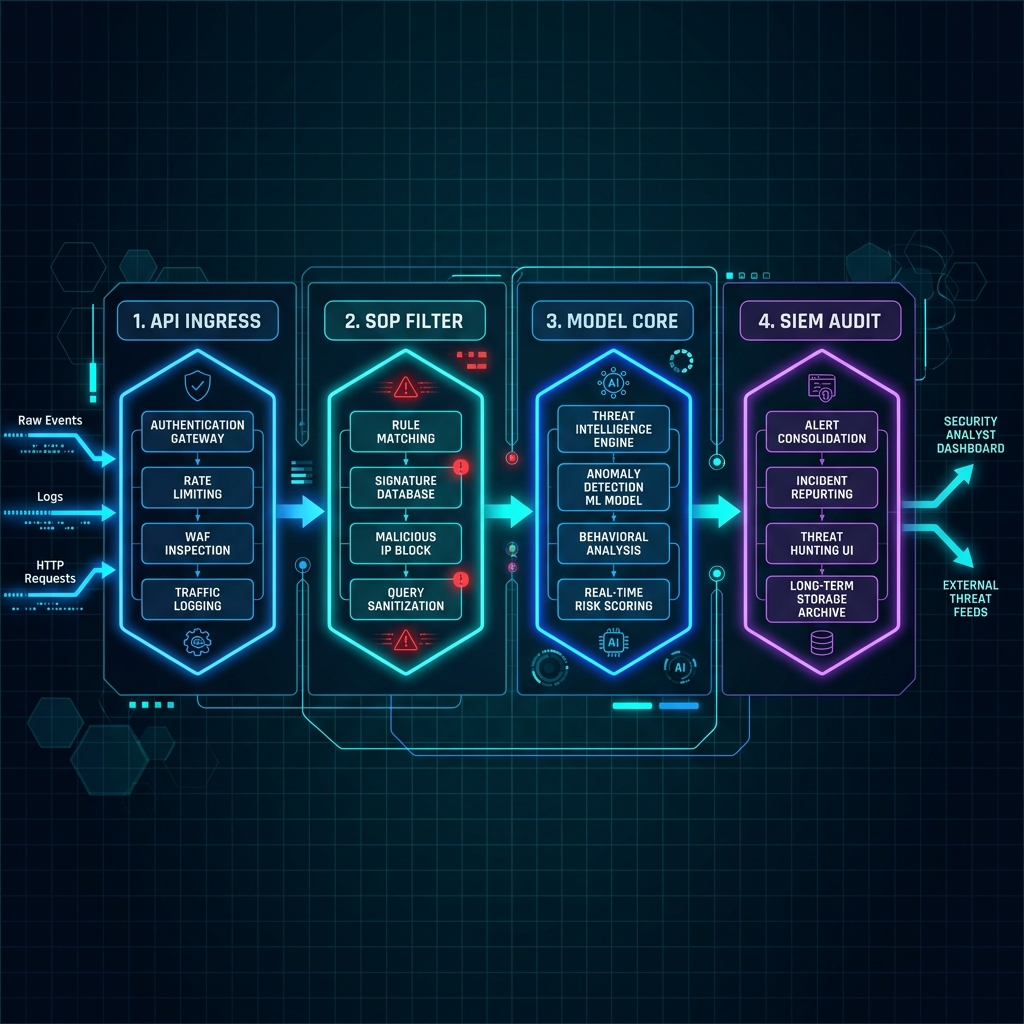
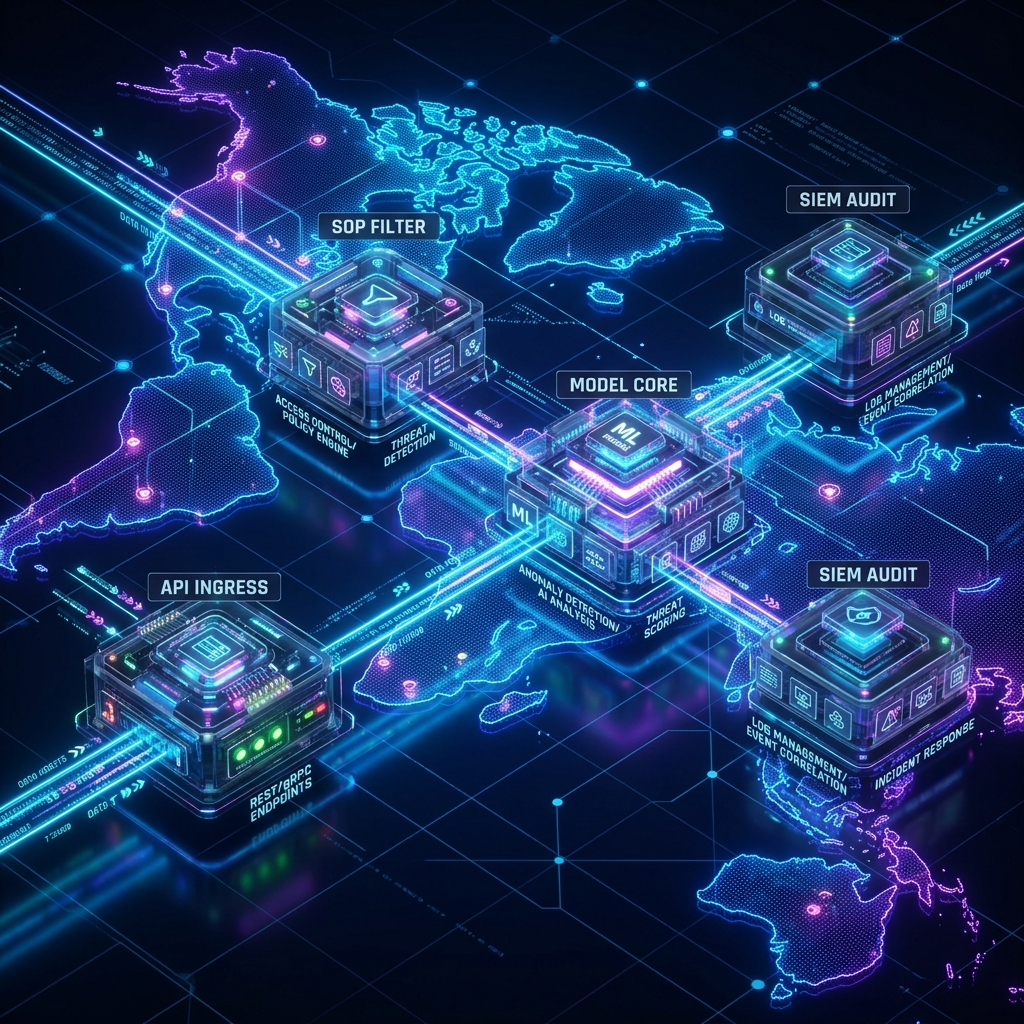
docs/feat: update concept art to premium dark cyber schematic and add glowing cursor hover paths to architecture diagram

diff --git a/src/components/dashboard/ProcessArchitecture.tsx b/src/components/dashboard/ProcessArchitecture.tsx
@@ -189,6 +189,14 @@ export function ProcessArchitecture() {
                 <stop offset="0%" stopColor="#a78bfa" stopOpacity="0.4" />
                 <stop offset="100%" stopColor="#ef4444" stopOpacity="0.4" />
               </linearGradient>
+              {/* Intense path glow filter */}
+              <filter id="glow-path" x="-50%" y="-50%" width="200%" height="200%">
+                <feGaussianBlur stdDeviation="3" result="blur" />
+                <feMerge>
+                  <feMergeNode in="blur" />
+                  <feMergeNode in="SourceGraphic" />
+                </feMerge>
+              </filter>
             </defs>
 
             {/* Grid background markers for detailed feel */}
@@ -199,34 +207,38 @@ export function ProcessArchitecture() {
             <path 
               d="M 50 120 L 200 60" 
               stroke="url(#grad-sop)" 
-              strokeWidth={activeNode === 'ingress' || activeNode === 'sop' ? "2.5" : "1.5"} 
-              strokeDasharray={simulationStep >= 0 ? "none" : "5 5"}
+              strokeWidth={activeNode === 'ingress' || activeNode === 'sop' ? "3" : "1.5"} 
+              strokeDasharray={simulationStep >= 0 || activeNode === 'ingress' || activeNode === 'sop' ? "none" : "5 5"}
+              filter={activeNode === 'ingress' || activeNode === 'sop' ? "url(#glow-path)" : "none"}
               fill="none" 
-              className={`transition-all duration-300 ${simulationStep >= 0 ? 'animate-[dash_1s_linear_infinite]' : ''}`} 
+              className={`transition-all duration-300 ${(simulationStep >= 0 || activeNode === 'ingress' || activeNode === 'sop') ? 'animate-[dash_1s_linear_infinite]' : ''}`} 
             />
             <path 
               d="M 50 120 L 200 180" 
               stroke="url(#grad-model)" 
-              strokeWidth={activeNode === 'ingress' || activeNode === 'model' ? "2.5" : "1.5"} 
-              strokeDasharray={simulationStep >= 0 ? "none" : "5 5"}
+              strokeWidth={activeNode === 'ingress' || activeNode === 'model' ? "3" : "1.5"} 
+              strokeDasharray={simulationStep >= 0 || activeNode === 'ingress' || activeNode === 'model' ? "none" : "5 5"}
+              filter={activeNode === 'ingress' || activeNode === 'model' ? "url(#glow-path)" : "none"}
               fill="none" 
-              className={`transition-all duration-300 ${simulationStep >= 0 ? 'animate-[dash_1.5s_linear_infinite]' : ''}`} 
+              className={`transition-all duration-300 ${(simulationStep >= 0 || activeNode === 'ingress' || activeNode === 'model') ? 'animate-[dash_1.5s_linear_infinite]' : ''}`} 
             />
             <path 
               d="M 200 60 L 350 120" 
               stroke="url(#grad-sop-siem)" 
-              strokeWidth={activeNode === 'sop' || activeNode === 'siem' ? "2.5" : "1.5"} 
-              strokeDasharray={simulationStep >= 0 ? "none" : "5 5"}
+              strokeWidth={activeNode === 'sop' || activeNode === 'siem' ? "3" : "1.5"} 
+              strokeDasharray={simulationStep >= 0 || activeNode === 'sop' || activeNode === 'siem' ? "none" : "5 5"}
+              filter={activeNode === 'sop' || activeNode === 'siem' ? "url(#glow-path)" : "none"}
               fill="none" 
-              className={`transition-all duration-300 ${simulationStep >= 0 ? 'animate-[dash_1.2s_linear_infinite]' : ''}`} 
+              className={`transition-all duration-300 ${(simulationStep >= 0 || activeNode === 'sop' || activeNode === 'siem') ? 'animate-[dash_1.2s_linear_infinite]' : ''}`} 
             />
             <path 
               d="M 200 180 L 350 120" 
               stroke="url(#grad-model-siem)" 
-              strokeWidth={activeNode === 'model' || activeNode === 'siem' ? "2.5" : "1.5"} 
-              strokeDasharray={simulationStep >= 0 ? "none" : "5 5"}
+              strokeWidth={activeNode === 'model' || activeNode === 'siem' ? "3" : "1.5"} 
+              strokeDasharray={simulationStep >= 0 || activeNode === 'model' || activeNode === 'siem' ? "none" : "5 5"}
+              filter={activeNode === 'model' || activeNode === 'siem' ? "url(#glow-path)" : "none"}
               fill="none" 
-              className={`transition-all duration-300 ${simulationStep >= 0 ? 'animate-[dash_1.4s_linear_infinite]' : ''}`} 
+              className={`transition-all duration-300 ${(simulationStep >= 0 || activeNode === 'model' || activeNode === 'siem') ? 'animate-[dash_1.4s_linear_infinite]' : ''}`} 
             />
 
             {/* Flowing animated signal packets (Normal Mode) */}
